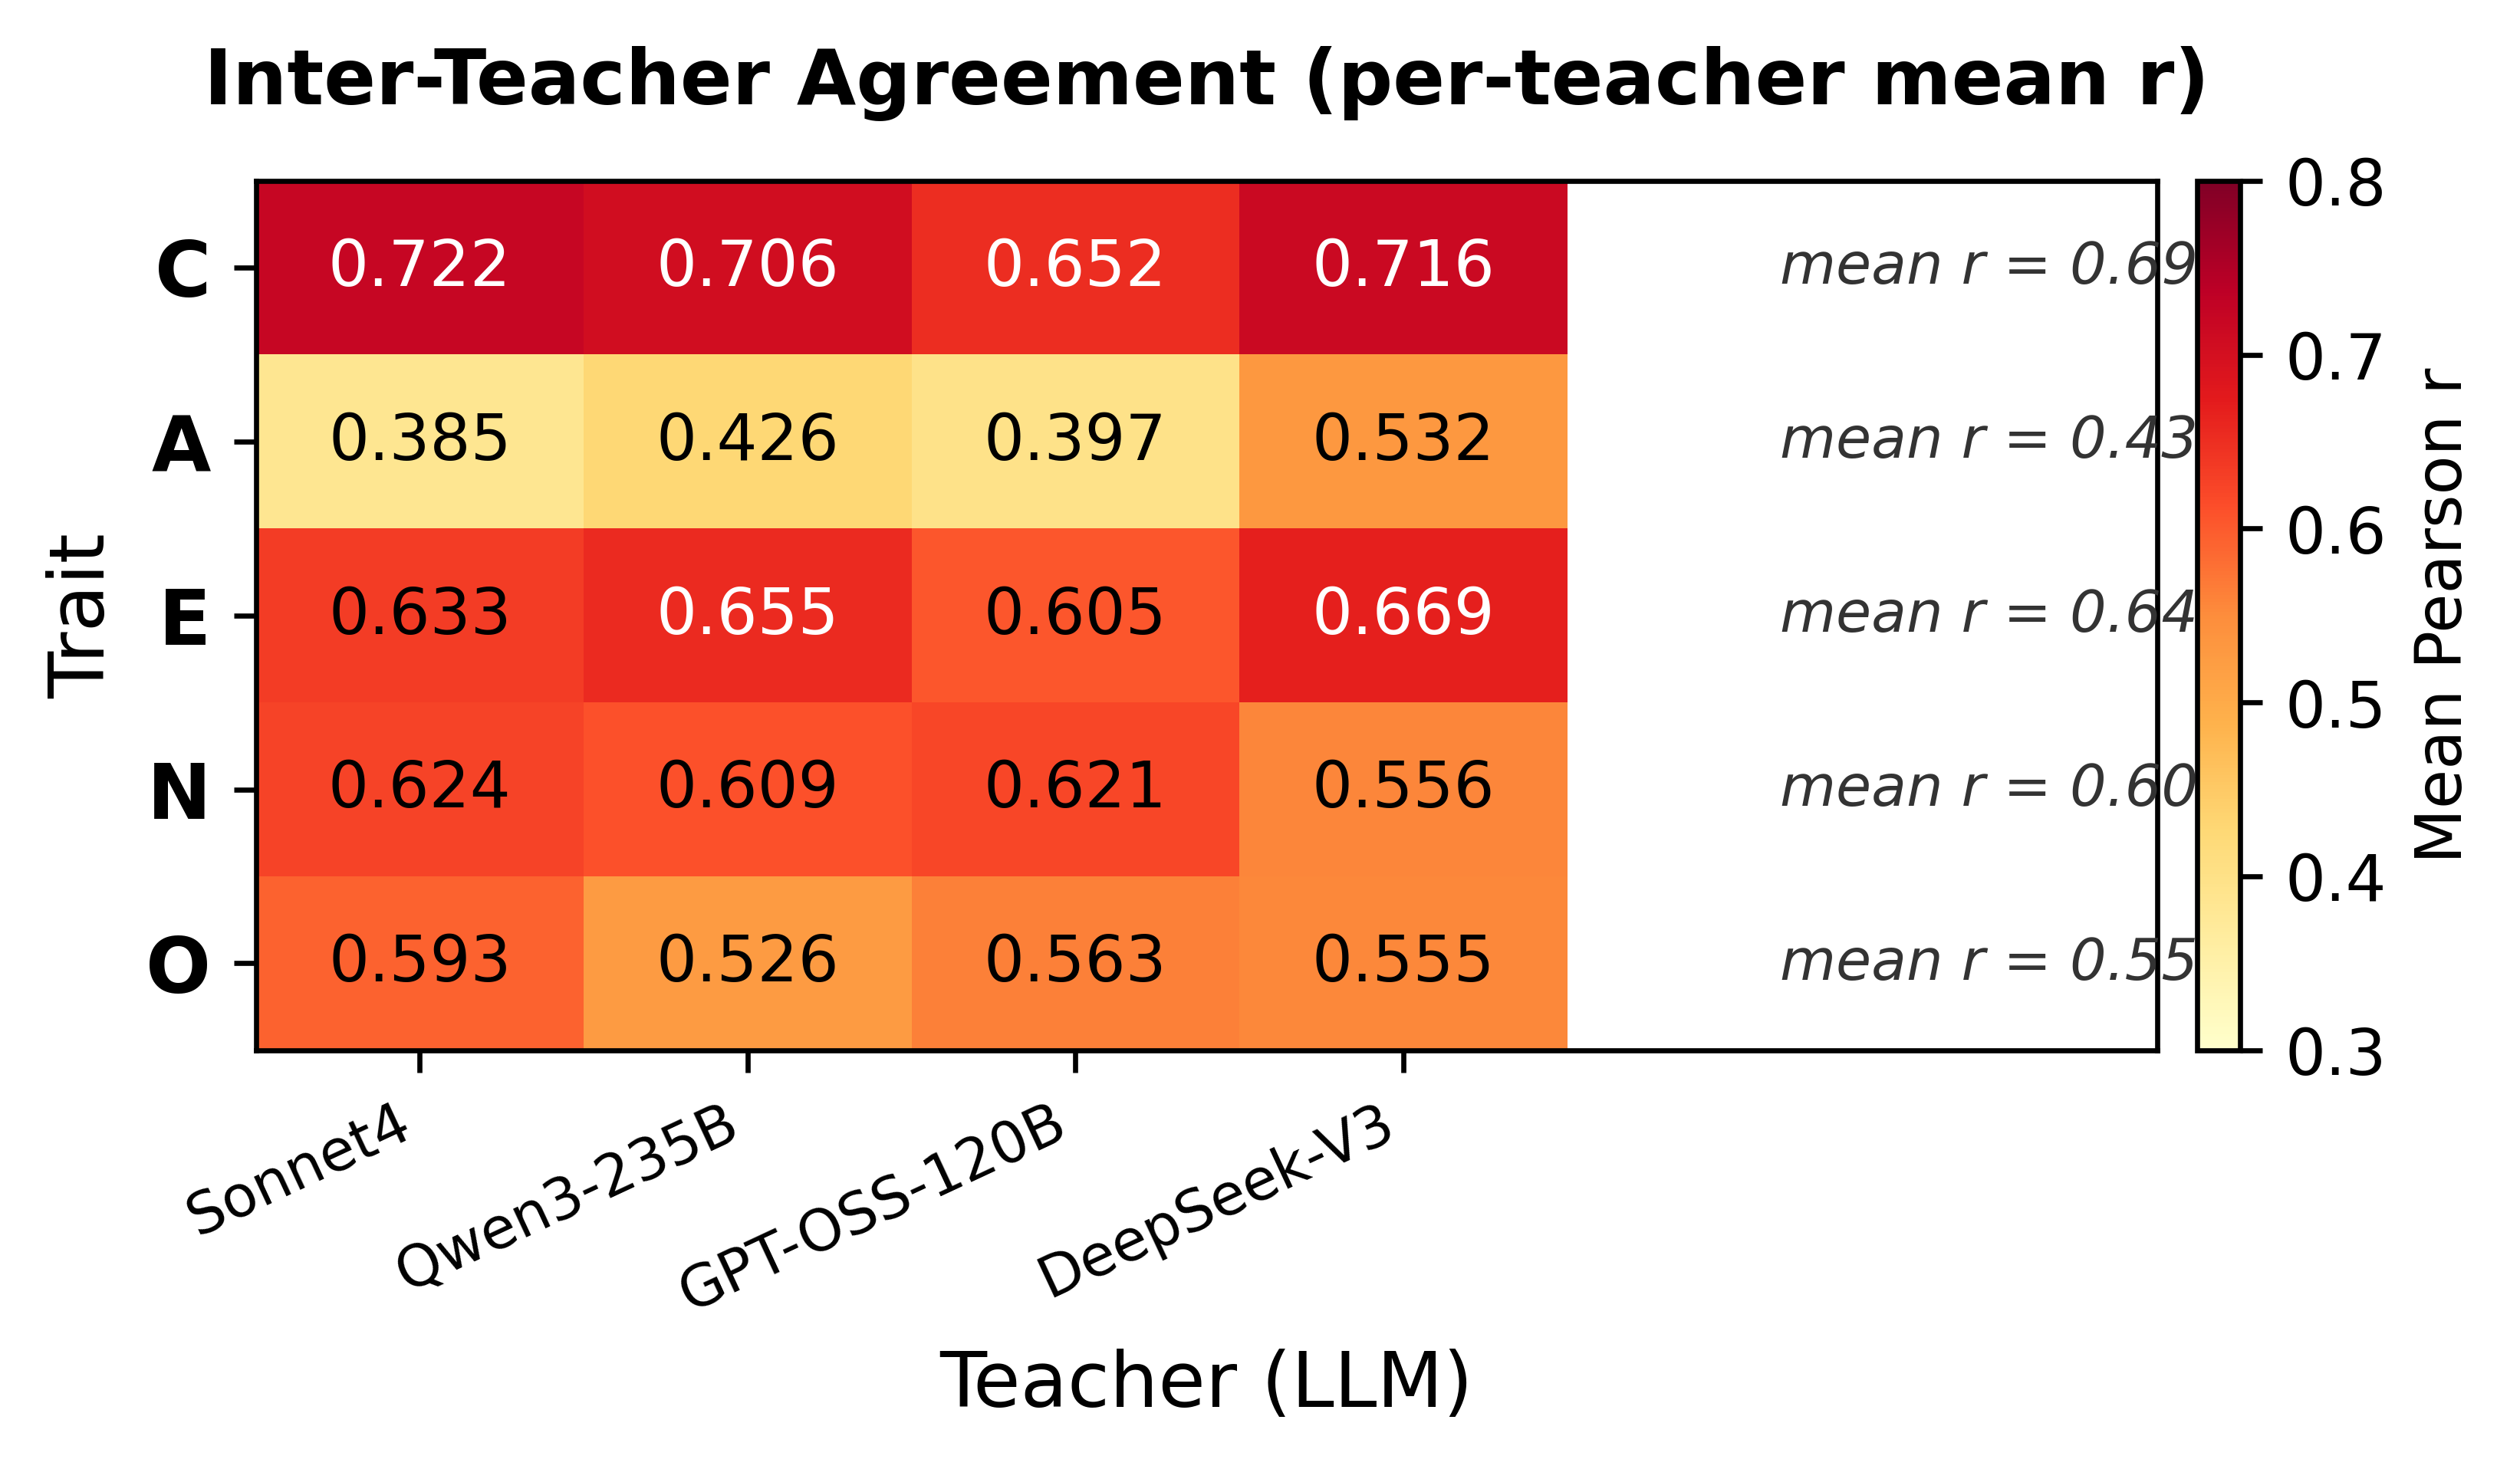
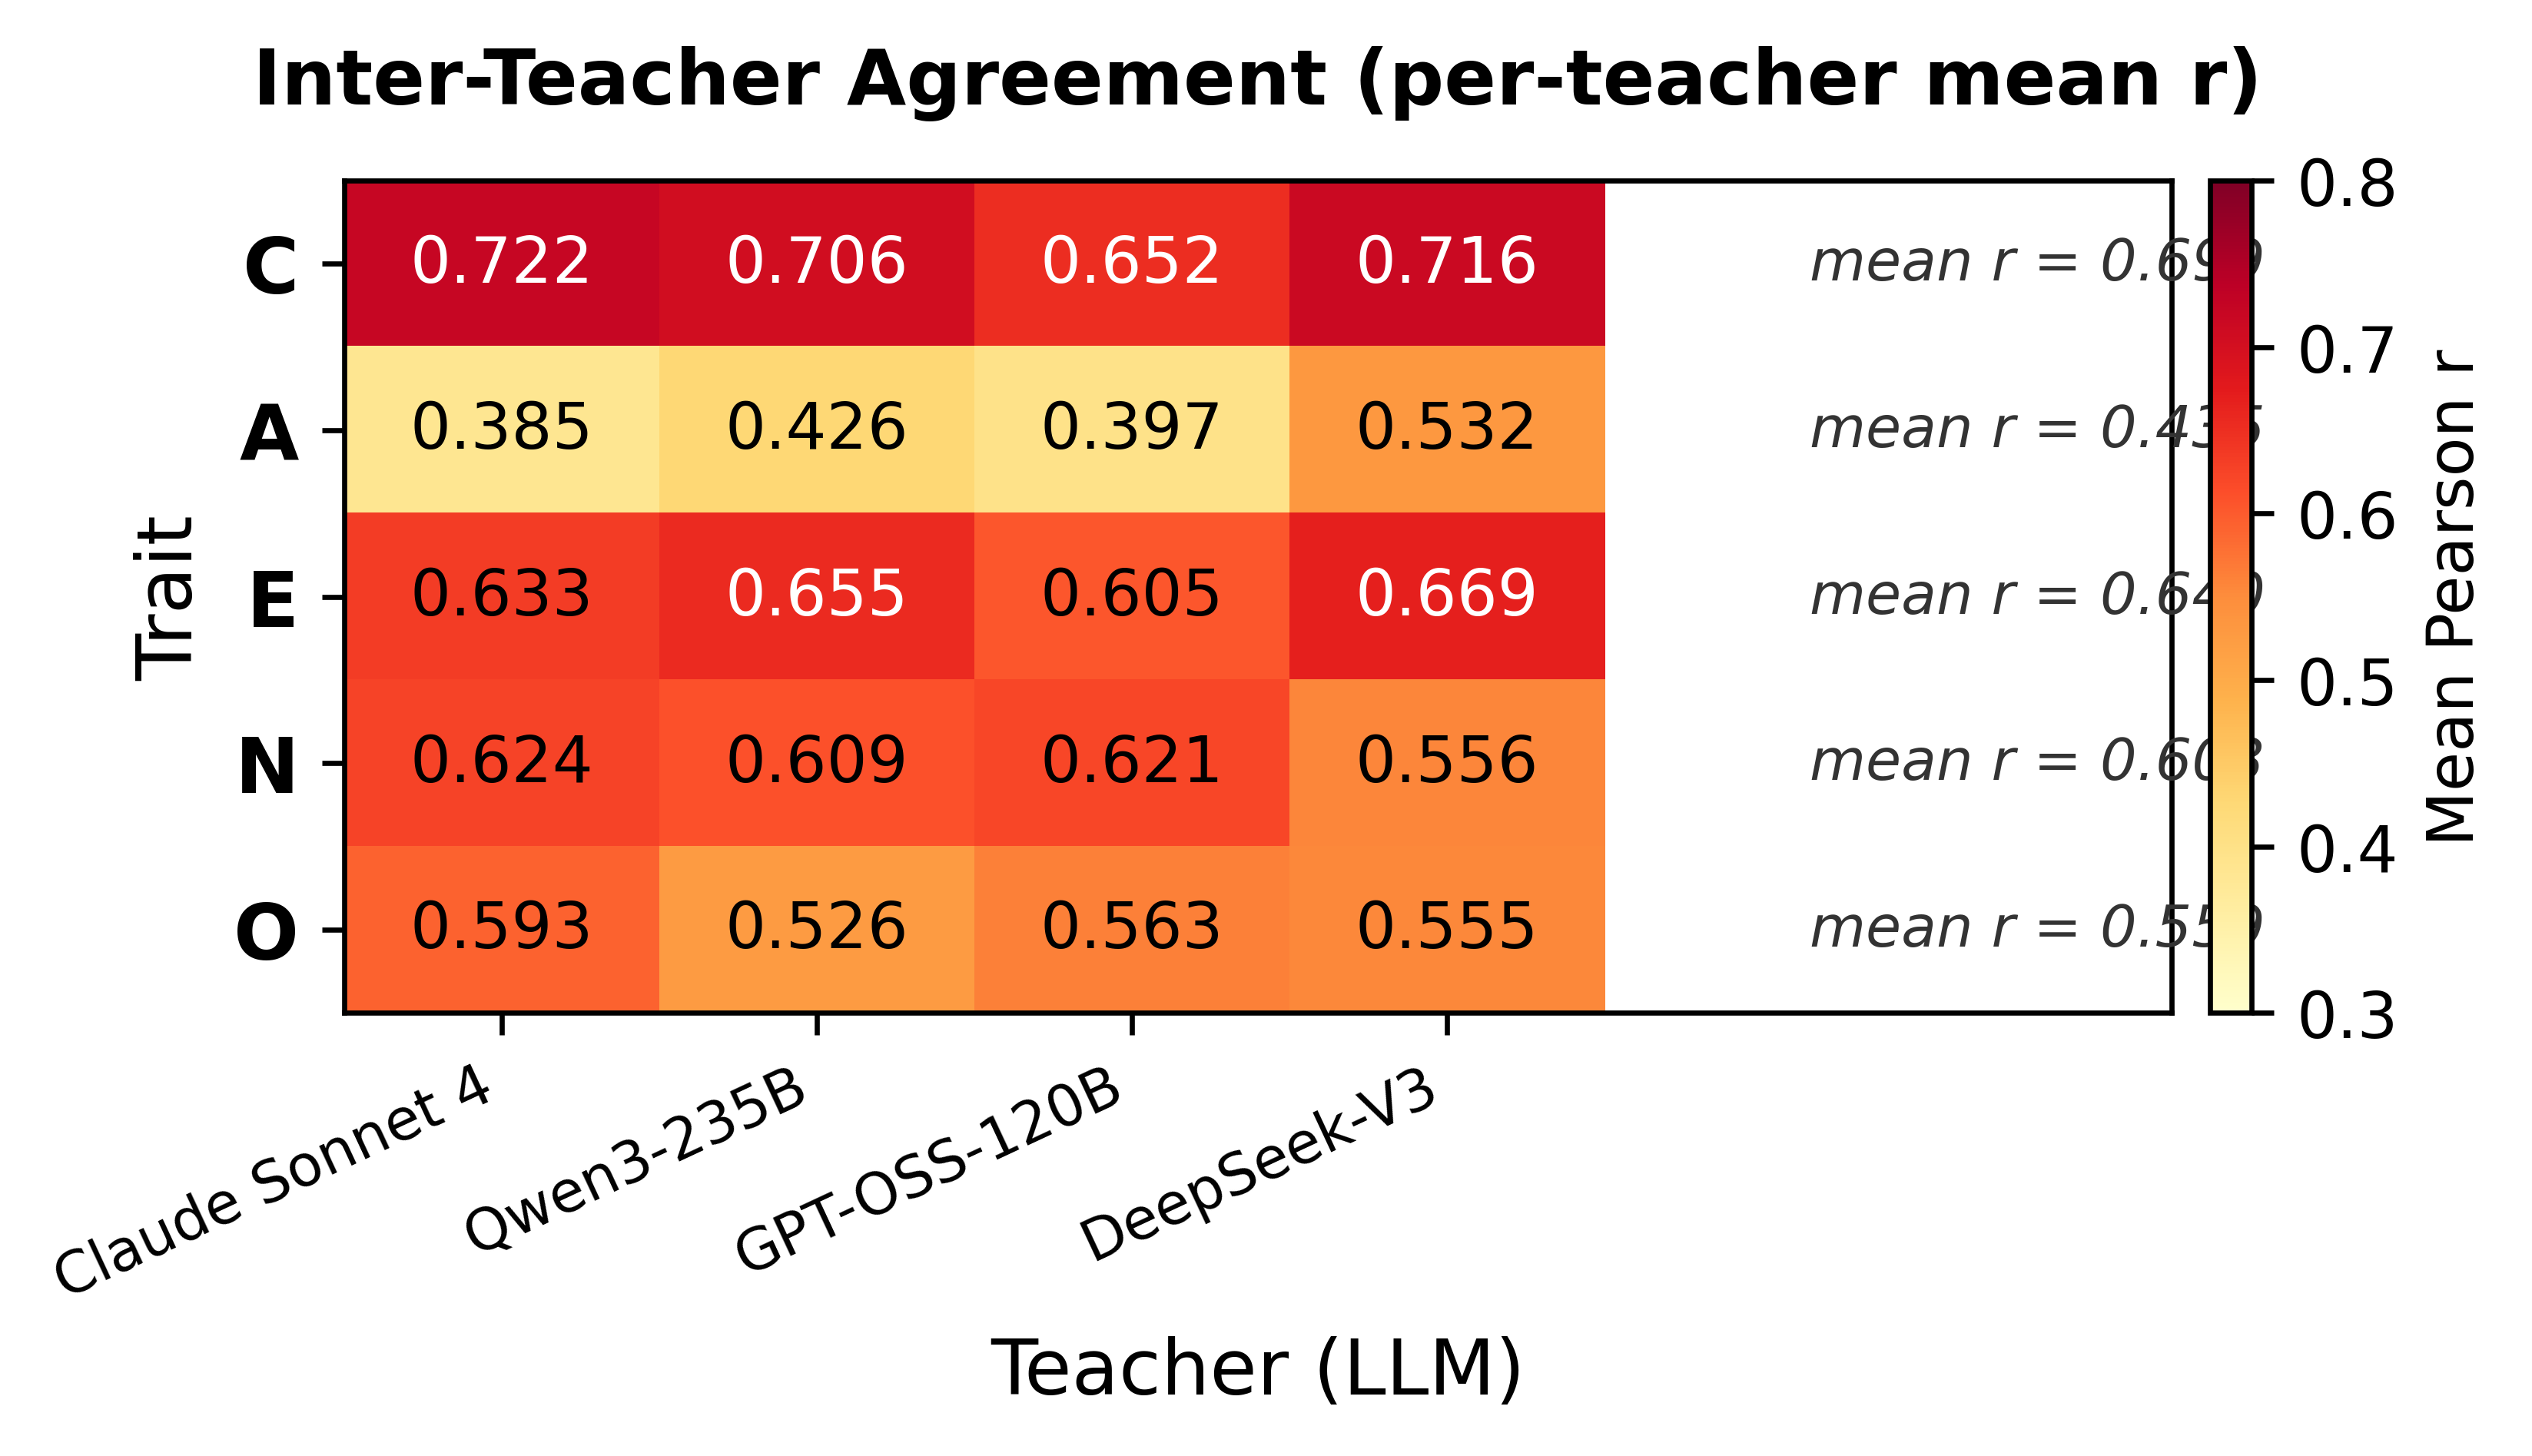
#21 LLMモデル表記をWright準拠に統一（Claude Sonnet 4／公開区分併記）＋依存図表を再生成

diff --git a/scripts/paper_figs/gen_paper_figs_v2.py b/scripts/paper_figs/gen_paper_figs_v2.py
@@ -34,7 +34,7 @@ except ModuleNotFoundError:
 TRAITS = ["C", "A", "E", "N", "O"]
 TEACHERS = ["sonnet", "qwen3-235b", "gpt-oss-120b", "deepseek-v3"]
 TEACHER_DISPLAY = {
-    "sonnet": "Sonnet4",
+    "sonnet": "Claude Sonnet 4",
     "qwen3-235b": "Qwen3-235B",
     "gpt-oss-120b": "GPT-OSS-120B",
     "deepseek-v3": "DeepSeek-V3",
@@ -689,7 +689,7 @@ def gen_fig_bootstrap_C_radar(bootstrap_dir: Path, out_dir: Path) -> None:
     ax.set_yticklabels(["0.2", "0.4", "0.6", "0.8", "1.0"], fontsize=8, color="grey")
 
     ax.set_title(
-        "Bootstrap Stability: Top-10 Features for C (Sonnet4)",
+        "Bootstrap Stability: Top-10 Features for C (Claude Sonnet 4)",
         fontsize=12,
         fontweight="bold",
         pad=24,
@@ -829,9 +829,10 @@ def gen_fig_teacher_corr_matrix(results_dir: Path, out_dir: Path) -> None:
 
     trait_order = ["O", "C", "E", "A", "N"]
     tsv_teachers = ["sonnet4", "qwen3-235b", "deepseek-v3", "gpt-oss-120b"]
-    display_labels = ["Sonnet4", "Qwen3\n235B", "DeepSeek\nV3", "GPT-OSS\n120B"]
-    # x軸は単一行・斜め配置でラベル衝突を防ぐ（モデルファミリ名で一意に識別可能）
-    x_labels = ["Sonnet 4", "Qwen3", "DeepSeek", "GPT-OSS"]
+    # モデル名は本文（\ref{sec:big5score}）と統一（ベンダー＋公式識別子）。
+    # 4×4行列で行・列は同一の教師なので両軸で同じラベルを用いる。狭幅のため2行折返し。
+    display_labels = ["Claude\nSonnet 4", "Qwen3\n235B", "DeepSeek\nV3", "GPT-OSS\n120B"]
+    x_labels = display_labels
 
     fig, axes = plt.subplots(3, 2, figsize=(5.8, 8.1))
     axes_flat = axes.flatten()
@@ -1661,7 +1662,7 @@ def gen_tab_permutation_all(results_dir: Path, out_dir: Path) -> None:
     """Generate full permutation results LaTeX table. [Task 1.8]
 
     Rows: 5 traits (C, A, E, N, O).
-    Columns: 4 teachers (Sonnet4, Qwen3-235B, GPT-OSS-120B, DeepSeek-V3).
+    Columns: 4 teachers (Claude Sonnet 4, Qwen3-235B, GPT-OSS-120B, DeepSeek-V3).
     Each cell: r_obs (p-value), bold if p < 0.05.
     Missing permutation.log → "---".
 

diff --git a/reports/paper_figs_v2/tab_permutation_all.tex b/reports/paper_figs_v2/tab_permutation_all.tex
@@ -1,6 +1,6 @@
 \begin{tabular}{lcccc}
 \toprule
-Trait & Sonnet4 & Qwen3-235B & GPT-OSS-120B & DeepSeek-V3 \\
+Trait & Claude Sonnet 4 & Qwen3-235B & GPT-OSS-120B & DeepSeek-V3 \\
 \midrule
 C & \textbf{0.360 (0.0038)} & \textbf{0.403 (0.0010)} & \textbf{0.452 (0.0006)} & 0.229 (0.0674) \\
 A & 0.188 (0.1540) & \textbf{0.285 (0.0258)} & \textbf{0.394 (0.0028)} & \textbf{0.278 (0.0288)} \\

diff --git a/docs/homework/soda_check_list_20260703.md b/docs/homework/soda_check_list_20260703.md
@@ -33,12 +33,12 @@
 | 18 | 641 | 考察 | 考察を一般的なお作法の構造に修正 | ⬜ | — |
 | 19 | 992 | 補足・付録A(会話データ) | 「推定が不安定」表現の補足・修正（会話量担保の観点へ） | ⬜ | — |
 | 20 | 1010 | 補足・付録A(会話データ) | 当該セクション説明の要否（再現に不要なら削除） | ⬜ | — |
-| 21 | 1049 | 補足・LLM仮想Big5 | 各モデルの記述粒度を統一（パラメータ数の有無等） | ⬜ | 方針決定: モデル選定の出典 Wright ら2026（PMC12974486で確認）の表記法「ベンダー名+公式識別子+公開区分（オープン/プロプライエタリ）」に準拠。Sonnetは非公開でパラメータ数統一が不可能だが、Wrightも同様の理由でパラメータ数でなく公開区分で揃えており、査読で論理的に説明できる。実装は#26の図再描画とセットで着手予定。 |
+| 21 | 1049 | 補足・LLM仮想Big5 | 各モデルの記述粒度を統一（パラメータ数の有無等） | ✅ | Wright ら2026（PMC12974486で確認）の表記法「ベンダー名+公式識別子+公開区分（オープン/プロプライエタリ）」に準拠。Sonnetは非公開でパラメータ数統一が不可能だが、Wrightも同理由でパラメータ数でなく公開区分で揃えており査読で説明可能。本文モデルリスト・全図ラベル・本文中の全「Sonnet4」表記を「Claude Sonnet 4」に統一。生成元も修正・再生成。 |
 | 22 | 1232 | 補足・感度分析 | 補足資料として提示するなら結果もきちんと示す | ⬜ | — |
 | 23 | 1237 | 補足・感度分析 | 「特徴量サブセットの感度」記述の適否を確認 | ⬜ | — |
 | 24 | 1241 | 補足・感度分析 | 当該セクションと3段階リッジの差異を明確化（同一なら削除検討） | ⬜ | — |
 | 25 | 1311 | 補足・LLMモデル間の差異 | Big5次元の呼称を Conscientiousness に統一 | ⬜ | — |
-| 26 | 1331 | 補足・LLMモデル間の差異 | 本文値と図の値の不一致を確認（例: 0.699 vs 0.69） | ✅ | 掲載図が旧版で0.69に切り捨て表示だった。集計元TSV（C上三角平均=0.6987→0.699）が正で本文も正しかったため、現行スクリプトで図を再生成し0.699表示に統一。※モデル名ラベルの表記統一は#21確定後に再描画が必要。 |
+| 26 | 1331 | 補足・LLMモデル間の差異 | 本文値と図の値の不一致を確認（例: 0.699 vs 0.69） | ✅ | 掲載図が旧版で0.69に切り捨て表示だった。集計元TSV（C上三角平均=0.6987→0.699）が正で本文も正しかったため、現行スクリプトで図を再生成し0.699表示に統一。依存していたモデル名ラベルの再描画は#21で完了（teacher_heatmap等）。 |
 | 27 | 1350 | 補足・LLMモデル間の差異 | C因子を特別扱いしない／粒度を揃える（または頑健性を明確に主張） | 💬 | 全体相談待ち。全次元掲載か頑健性主張かは山下先生含めMTGで決定するため原稿修正は保留。 |
 | 28 | 1368 | 補足・LLMモデル間の差異 | 図 fig:perm_C の削除検討（C だけ図示する必要性） | ⬜ | — |
 | 29 | 1402 | 補足・LLMモデル間の差異(考察) | 考察でC因子を過度に強調しない、内容の誤り確認 | ⬜ | — |
@@ -146,3 +146,17 @@
 - 決定した統一形（本文）: `Anthropic Claude Sonnet 4（プロプライエタリ）` / `Alibaba Qwen3-235B（オープンウェイト）` / `DeepSeek DeepSeek-V3（オープンウェイト）` / `OpenAI GPT-OSS-120B（オープンウェイト）`。パラメータ数の不揃い併記を廃止。
 - 依存関係: 図のモデル名ラベル（#26の fig_teacher_heatmap ほか teacher_corr_matrix / ensemble_permutation / permutation_C_bar）は本統一形に合わせて短縮ラベルで再描画が必要。`gen_paper_figs_v2.py` のラベル定義（`TEACHER_DISPLAY` と `fig_teacher_corr_matrix` 独自ラベル）を一本化して一括再生成する。
 - 状態: 表記統一形は福原の確認済み。実装（本文修正＋全図再生成＋uplatex検証）は次アクション。
+
+### #21 実装完了（2026-07-03）
+- 本文L1043-1048のモデルリストをWright準拠に統一: `Anthropic Claude Sonnet 4（プロプライエタリ）` / `Alibaba Qwen3-235B（オープンウェイト）` / `DeepSeek DeepSeek-V3（オープンウェイト）` / `OpenAI GPT-OSS-120B（オープンウェイト）`。粒度の根拠を1文で明記し、解決済みの[CHECK]コメントを削除。
+- 本文中の全「Sonnet4」表記（散文＋IPIP例示表、計15箇所）を「Claude Sonnet 4」に統一。他3モデルは既に図表と一致。
+- 図ラベルを一本化: `gen_paper_figs_v2.py` の `TEACHER_DISPLAY["sonnet"]` を `Claude Sonnet 4` に変更（fig_permutation_C_bar / fig_teacher_heatmap / tab_permutation_all に波及）。`fig_teacher_corr_matrix` の独自ラベルも両軸で同一の統一ラベル（2行折返し）に修正（従来はx軸がファミリ名のみで粒度不一致だった）。
+- 再生成した成果物: fig_permutation_C_bar.png / fig_teacher_heatmap.png / fig_teacher_corr_matrix.png / tab_permutation_all.tex。
+- 検証: `uplatex paper1_ja_st.tex` exit 0（45ページ）。leftover「Sonnet4」0件、二重接頭辞なしを確認。一時ファイル削除済み。
+- 図表↔解析ファイル対応表（追加分）:
+
+| 原稿の図表 | 生成スクリプト | 集計元データ |
+|---|---|---|
+| fig_permutation_C_bar.png | gen_paper_figs_v2.py::gen_fig_permutation_C_bar | artifacts/analysis/results/cejc_home2_hq1_Conly_*_controls_excluded |
+| fig_teacher_corr_matrix.png | gen_paper_figs_v2.py::gen_fig_teacher_corr_matrix | docs/homework/assets/teacher_corr_*.tsv |
+| tab_permutation_all.tex | gen_paper_figs_v2.py::gen_tab_permutation_all | artifacts/analysis/results/cejc_home2_hq1_*only_*_controls_excluded |